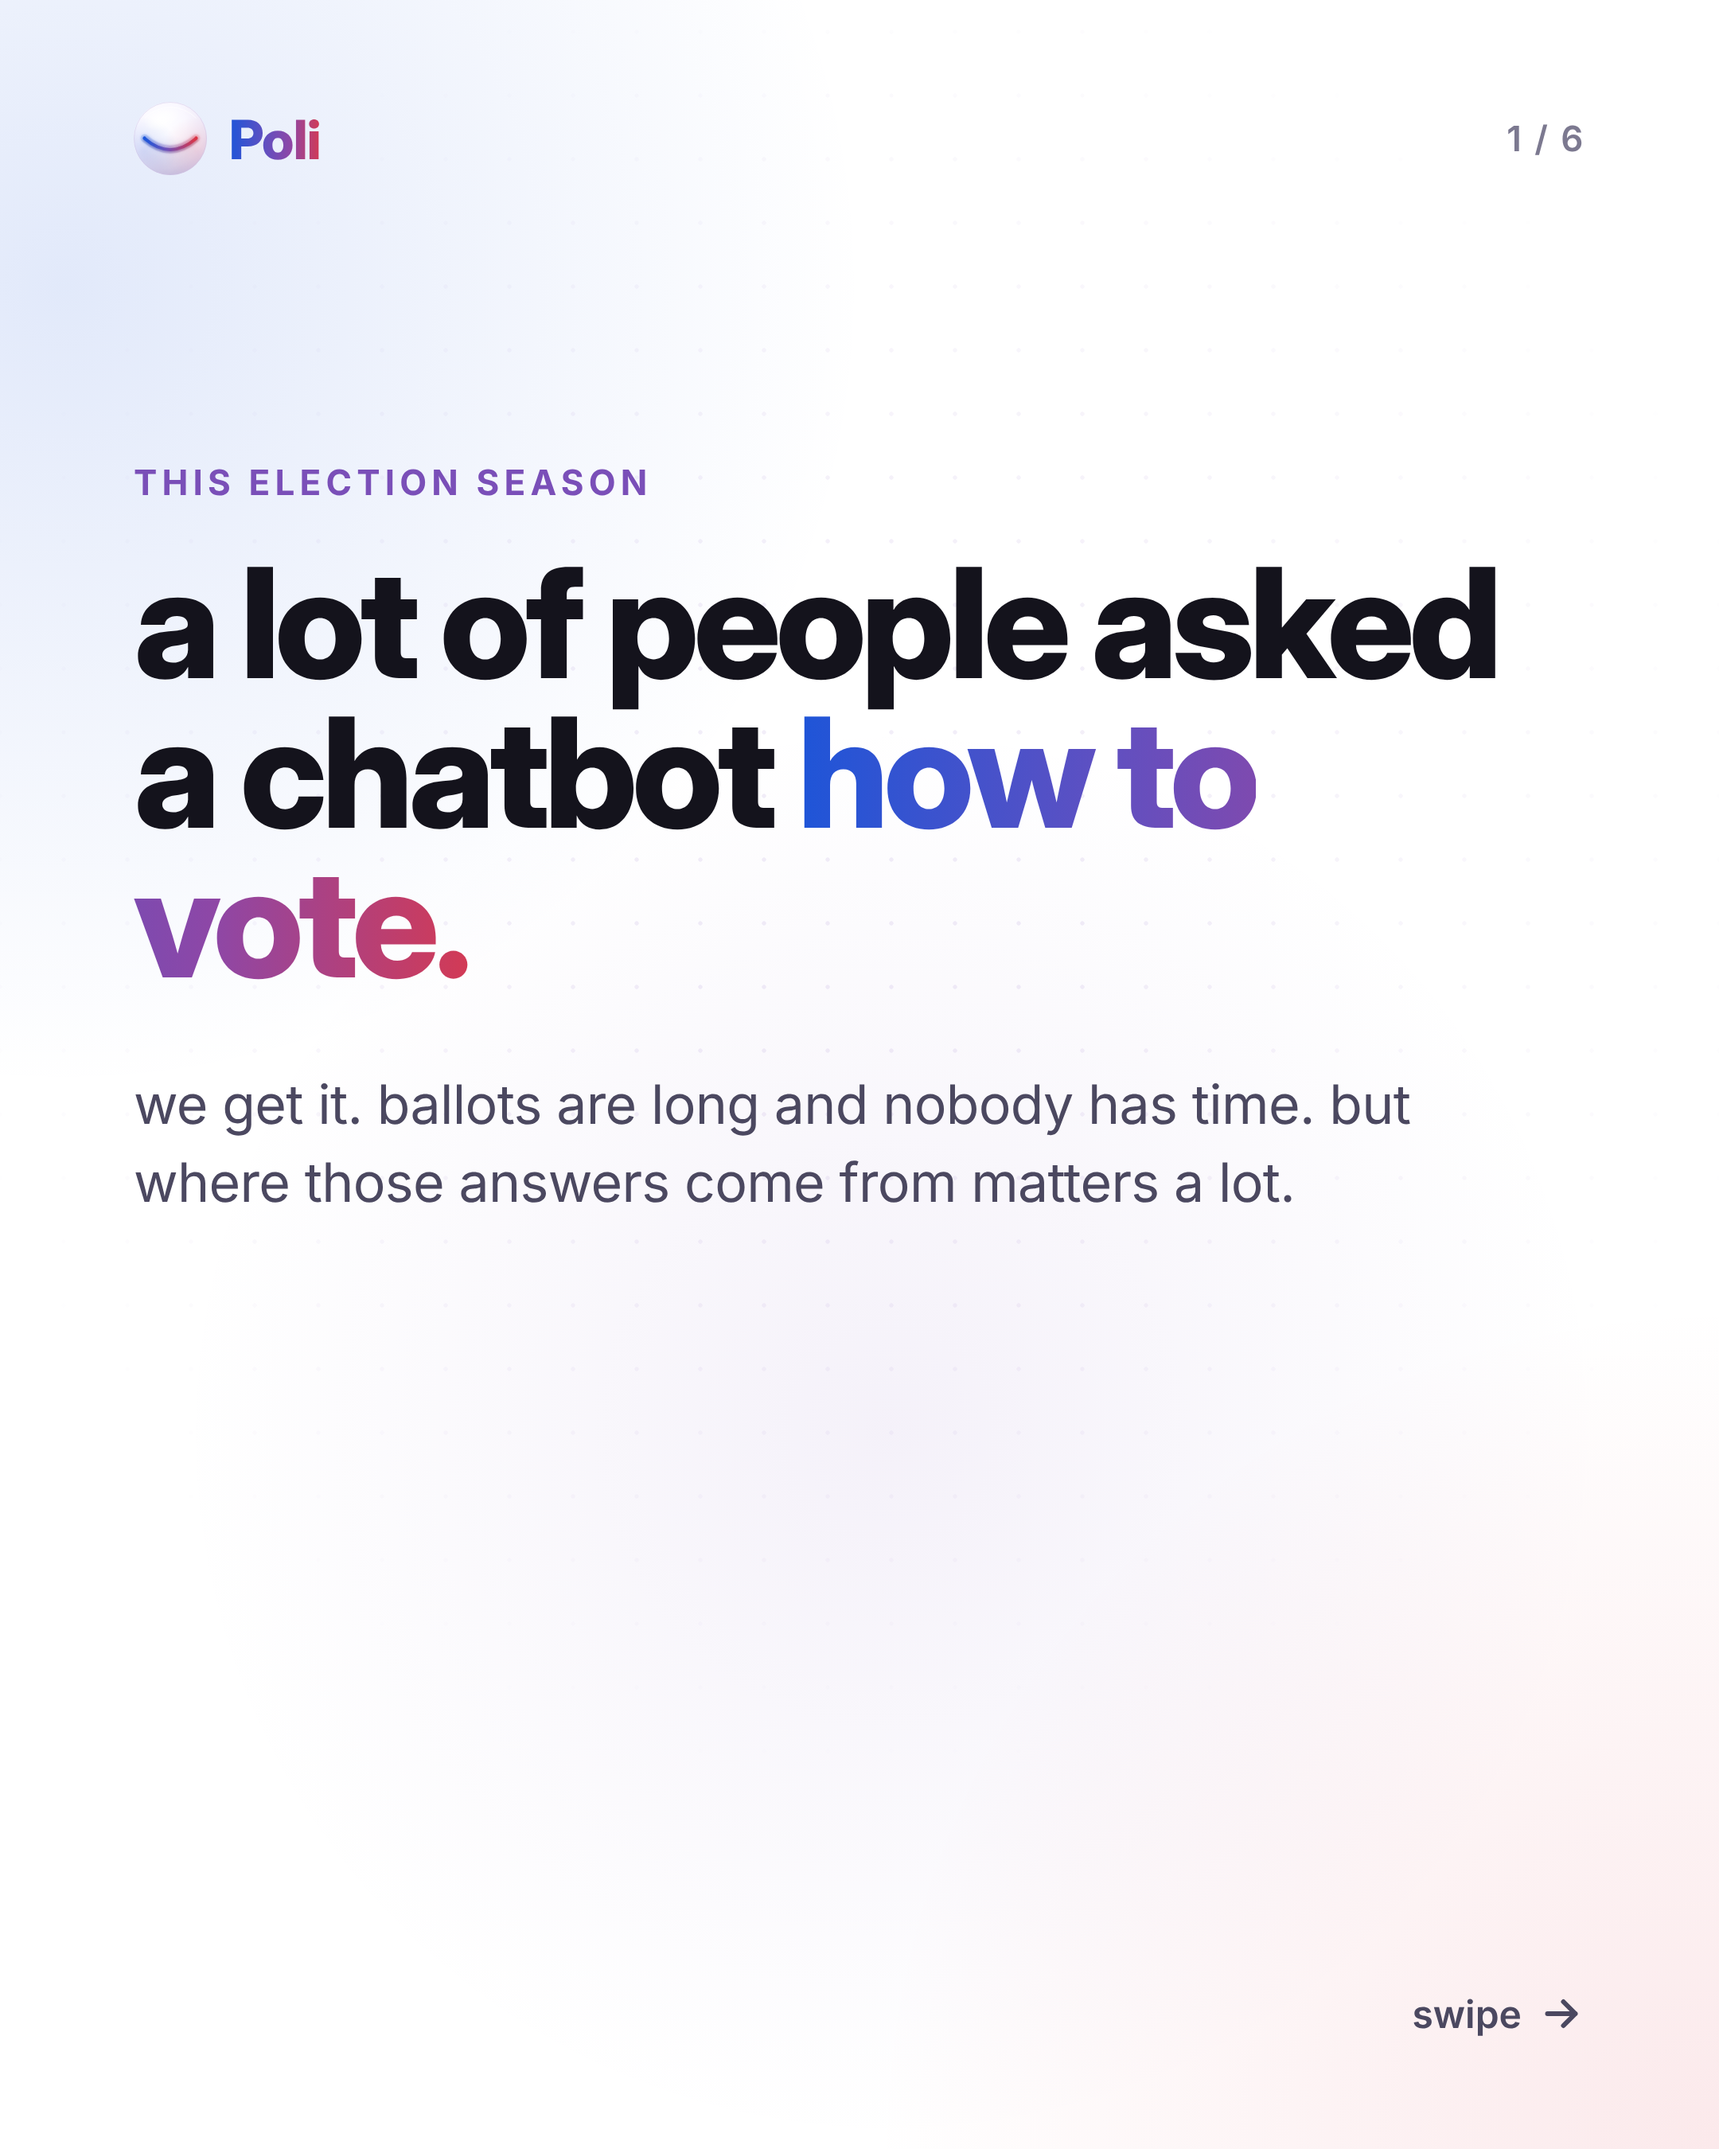
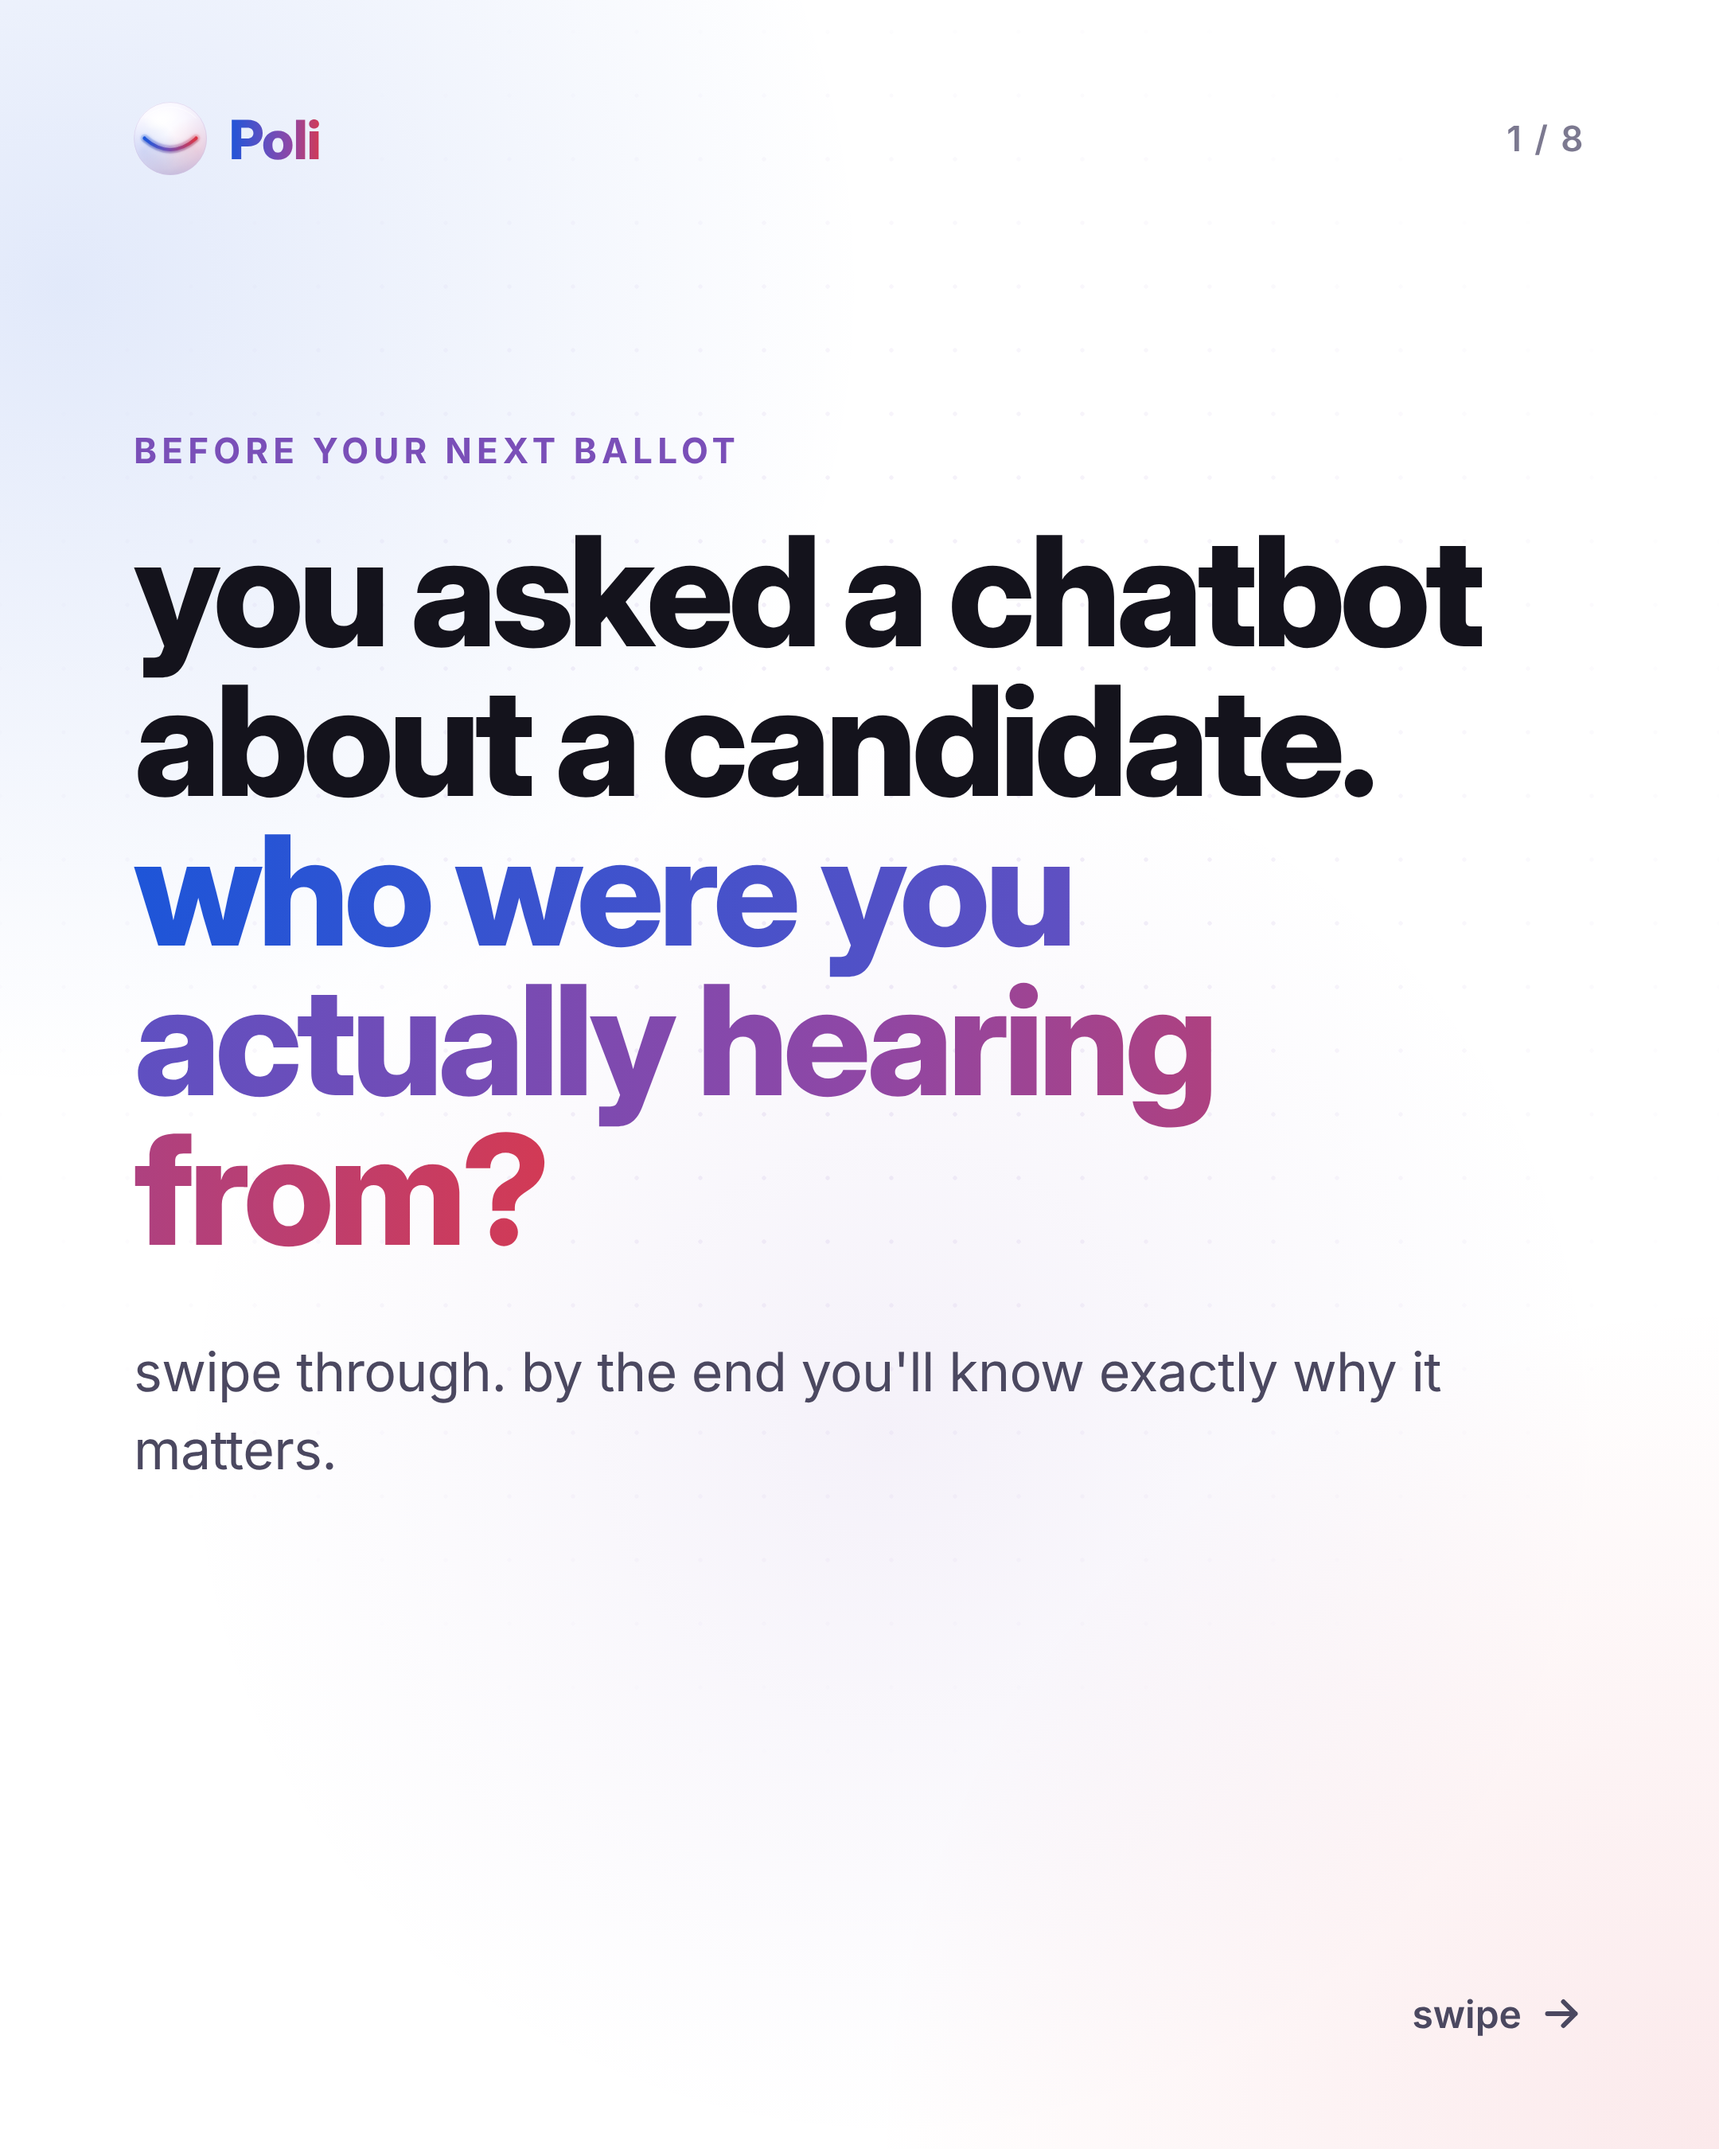
Post 2: persuasive rewrite with the 'what if they lie' objection, stronger contrast, 8 slides
Claude-Session: https://claude.ai/code/session_01SShT3dbSYkGvjEDFvWeJak

Changed region(s): [[0.062, 0.1867, 0.8685, 0.5911], [0.062, 0.6222, 0.8375, 0.6844], [0.7755, 0.4978, 0.8375, 0.5289]]

diff --git a/weekly-posts/source/posts.html b/weekly-posts/source/posts.html
@@ -74,7 +74,14 @@
   .sample { position: absolute; font: 700 18px 'Inter'; letter-spacing: 0.16em; color: #5B3FA6; padding: 9px 16px; border-radius: 10px; background: #F1EDFB; border: 1.5px dashed rgba(122,79,184,0.5); }
 
   /* split comparison */
-  .vs { position: absolute; left: 84px; right: 84px; top: 300px; bottom: 120px; align-content: center; display: grid; grid-template-columns: minmax(0,1fr) minmax(0,1fr); gap: 26px; }
+  .vs { position: absolute; left: 84px; right: 84px; top: 280px; bottom: 230px; align-items: center; display: grid; grid-template-columns: minmax(0,0.8fr) minmax(0,1.2fr); gap: 24px; }
+  .col .mk { margin-top: 6px; }
+  .col.them { opacity: 0.78; min-height: 640px !important; filter: saturate(0.4); }
+  .col.us { min-height: 790px !important; }
+  .col.them .say { font-size: 48px !important; text-decoration: line-through; text-decoration-color: rgba(154,151,173,0.6); text-decoration-thickness: 3px; }
+  .col.us .say { font-size: 70px !important; color: #14131C; }
+  .col.them .note { font-size: 28px !important; }
+  .verdict { position: absolute; left: 84px; right: 84px; bottom: 96px; text-align: center; font: 700 44px/1.2 'Display'; letter-spacing: -0.02em; color: #14131C; }
   .col { border-radius: 40px; padding: 52px 44px; min-height: 700px; display: flex; flex-direction: column; gap: 22px; }
   .col.them { background: var(--panel); border: 1.5px solid var(--line); }
   .col.us { background: #FFFFFF; border: 2px solid transparent; background-image: linear-gradient(#fff, #fff), linear-gradient(135deg, #1C56DB, #7A4FB8, #DC3547); background-origin: border-box; background-clip: padding-box, border-box; box-shadow: 0 40px 90px -40px rgba(90,60,200,0.45); }
@@ -161,26 +168,34 @@ const P1 = [
 // -------------------------------------------------------------------------------------------
 // POST 2 · People used chatbots as voter guides this election. Split-screen contrast.
 // -------------------------------------------------------------------------------------------
-const them = `<div class="lab" style="color:#7C7990"><span class="chip">AI</span>A general chatbot</div>`;
+const XI = `<svg width="30" height="30" viewBox="0 0 24 24"><circle cx="12" cy="12" r="11" fill="#E7E5EE"/><path d="M8.5 8.5l7 7M15.5 8.5l-7 7" stroke="#9A97AD" stroke-width="2.2" stroke-linecap="round"/></svg>`;
+const OK = `<svg width="30" height="30" viewBox="0 0 24 24"><defs><linearGradient id="okg" x1="0" y1="0" x2="1" y2="1"><stop offset="0" stop-color="#1C56DB"/><stop offset=".5" stop-color="#7A4FB8"/><stop offset="1" stop-color="#DC3547"/></linearGradient></defs><circle cx="12" cy="12" r="11" fill="url(#okg)"/><path d="M7.5 12.3l3 3 6-6.3" stroke="#fff" stroke-width="2.3" fill="none" stroke-linecap="round" stroke-linejoin="round"/></svg>`;
+const them = `<div class="lab" style="color:#8B88A0"><span class="chip">AI</span>A general chatbot</div>`;
 const us = () => `<div class="lab">${orb(44)}<span class="g">Poli</span></div>`;
-const vs = (i, a, an, b, bn) => `${head(i, 6)}
-  <div class="abs" style="top:220px"><span class="tag" style="font-size:26px">${['', '', 'Where it gets answers', "When it doesn't know", 'Whose words they are', 'Where your question goes'][i]}</span></div>
-  <div class="vs"><div class="col them">${them}<div class="say">${a}</div><div class="note">${an}</div></div>
-    <div class="col us">${us()}<div class="say">${b}</div><div class="note">${bn}</div></div></div>`;
+const vs = (i, tag, a, an, b, bn, verdict) => `${head(i, 8)}
+  <div class="abs" style="top:200px"><span class="tag" style="font-size:26px">${tag}</span></div>
+  <div class="vs"><div class="col them">${them}<div class="mk">${XI}</div><div class="say">${a}</div><div class="note">${an}</div></div>
+    <div class="col us">${us()}<div class="mk">${OK}</div><div class="say">${b}</div><div class="note">${bn}</div></div></div>
+  <div class="verdict">${verdict}</div>`;
 const P2 = [
-  () => `${head(1, 6)}
-    <div class="abs" style="top:290px"><span class="tag">This election season</span>
-      <div class="h" style="margin-top:28px">a lot of people asked a chatbot <span class="g">how to vote.</span></div>
-      <div class="p" style="margin-top:44px;max-width:820px">we get it. ballots are long and nobody has time. but where those answers come from matters a lot.</div></div>${swipe}`,
-  () => vs(2, 'the whole internet', 'including sites with no author, old news, and posts from people who just really don\'t like the guy.', "the candidate's own material", "only what the campaign actually shared. their plans, their record, their words."),
-  () => vs(3, 'a confident guess', "it'll fill the gap with something that sounds right. that's the part that gets people.", '"I don\'t know"', "if the campaign hasn't covered it, Poli says so. then you can ask the campaign directly."),
-  () => vs(4, "someone's summary", "you get a blend of what other people think the candidate meant.", "the candidate's", "it's their AI Representative, clearly labeled as an AI. it never pretends to be them in person."),
-  () => vs(5, 'nowhere useful', 'the people on your ballot never find out you asked.', 'to the campaign', "they see what voters are asking about, so they know what you actually care about. your info is never sold."),
-  () => `${head(6, 6)}
-    <div class="abs" style="top:300px;text-align:center;display:flex;flex-direction:column;align-items:center">
-      ${orb(300)}
-      <div class="h2" style="margin-top:56px">same questions.<br><span class="g">straight from the source.</span></div>
-      <div class="p" style="margin-top:30px">save this for the next time your ballot is two pages long.</div></div>${foot}`,
+  () => `${head(1, 8)}
+    <div class="abs" style="top:270px"><span class="tag">Before your next ballot</span>
+      <div class="h" style="margin-top:28px">you asked a chatbot about a candidate. <span class="g">who were you actually hearing from?</span></div>
+      <div class="p" style="margin-top:44px;max-width:840px">swipe through. by the end you'll know exactly why it matters.</div></div>${swipe}`,
+  () => vs(2, 'Who is talking', 'anyone online', "blogs with no author, old articles, angry comments. it blends them together and you can't tell who said what.", 'the candidate. nobody else.', "every answer comes only from what the campaign itself published. one source, and you know exactly whose it is.", 'one is a mystery. one is the candidate.'),
+  () => vs(3, "When there's no answer", 'it makes one up', "if it can't find something, it fills the gap with an answer that sounds right. you'd never know.", 'it says "I don\'t know"', "if the campaign hasn't covered it, Poli tells you straight. no filler. you can ask the campaign directly.", "a confident guess isn't an answer."),
+  () => vs(4, 'Is it even real', 'could be anything', "no way to tell if a site, a quote, or a screenshot actually came from the campaign.", 'verified campaigns only', "Poli confirms the candidate is on the ballot and the website is official. and it's always clearly labeled as an AI.", 'you know who you are talking to.'),
+  () => `${head(5, 8)}
+    <div class="abs" style="top:300px"><span class="tag">The fair question</span>
+      <div class="h" style="margin-top:28px">"but what if the candidate <span class="g">just lies?"</span></div>
+      <div class="p" style="margin-top:44px;max-width:860px;font-size:40px;color:#14131C">Poli can't make a politician honest.<br><br>it does something better. it gives you their answer <b>in their own words, from their own campaign</b>. that makes it something you can hold them to.</div></div>${swipe}`,
+  () => vs(6, 'When they get it wrong', 'nobody said it', "a chatbot's answer belongs to no one. when it's wrong, there's no one to call out.", "they said it. it's on them.", "every answer comes from their own published words. if they break it, you have it in writing.", 'a chatbot gives you a guess. Poli gives you their word.'),
+  () => vs(7, 'After you ask', 'your question disappears', 'the people on your ballot never find out what you wanted to know.', 'the campaign hears you', "they see what voters ask about most, so what you care about actually reaches them. your personal info is never sold.", 'your question turns into pressure.'),
+  () => `${head(8, 8)}
+    <div class="abs" style="top:250px;text-align:center;display:flex;flex-direction:column;align-items:center">
+      ${orb(250)}
+      <div class="h" style="margin-top:56px;font-size:88px">stop guessing.<br><span class="g">ask the candidate.</span></div>
+      <div class="p" style="margin-top:34px;max-width:820px">their words. their record. and you can hold them to it.</div></div>${foot}`,
 ];
 
 // -------------------------------------------------------------------------------------------

diff --git a/weekly-posts/source/r2.js b/weekly-posts/source/r2.js
@@ -1,0 +1,5 @@
+const { chromium } = require('playwright'); const path = require('path');
+(async () => { const b = await chromium.launch({ args: ['--allow-file-access-from-files'] }); const p = await b.newPage({ viewport: { width: 1080, height: 1350 }, deviceScaleFactor: Number(process.argv[3] || 1) });
+  p.on('pageerror', e => console.error('ERR', e.message));
+  for (let i = 1; i <= 8; i++) { await p.goto('file://' + path.join(__dirname, 'posts.html') + `?p=2&n=${i}`); await p.evaluate(() => window.ready); await p.screenshot({ path: `${process.argv[2]}/slide-${i}.png` }); }
+  await b.close(); })();
